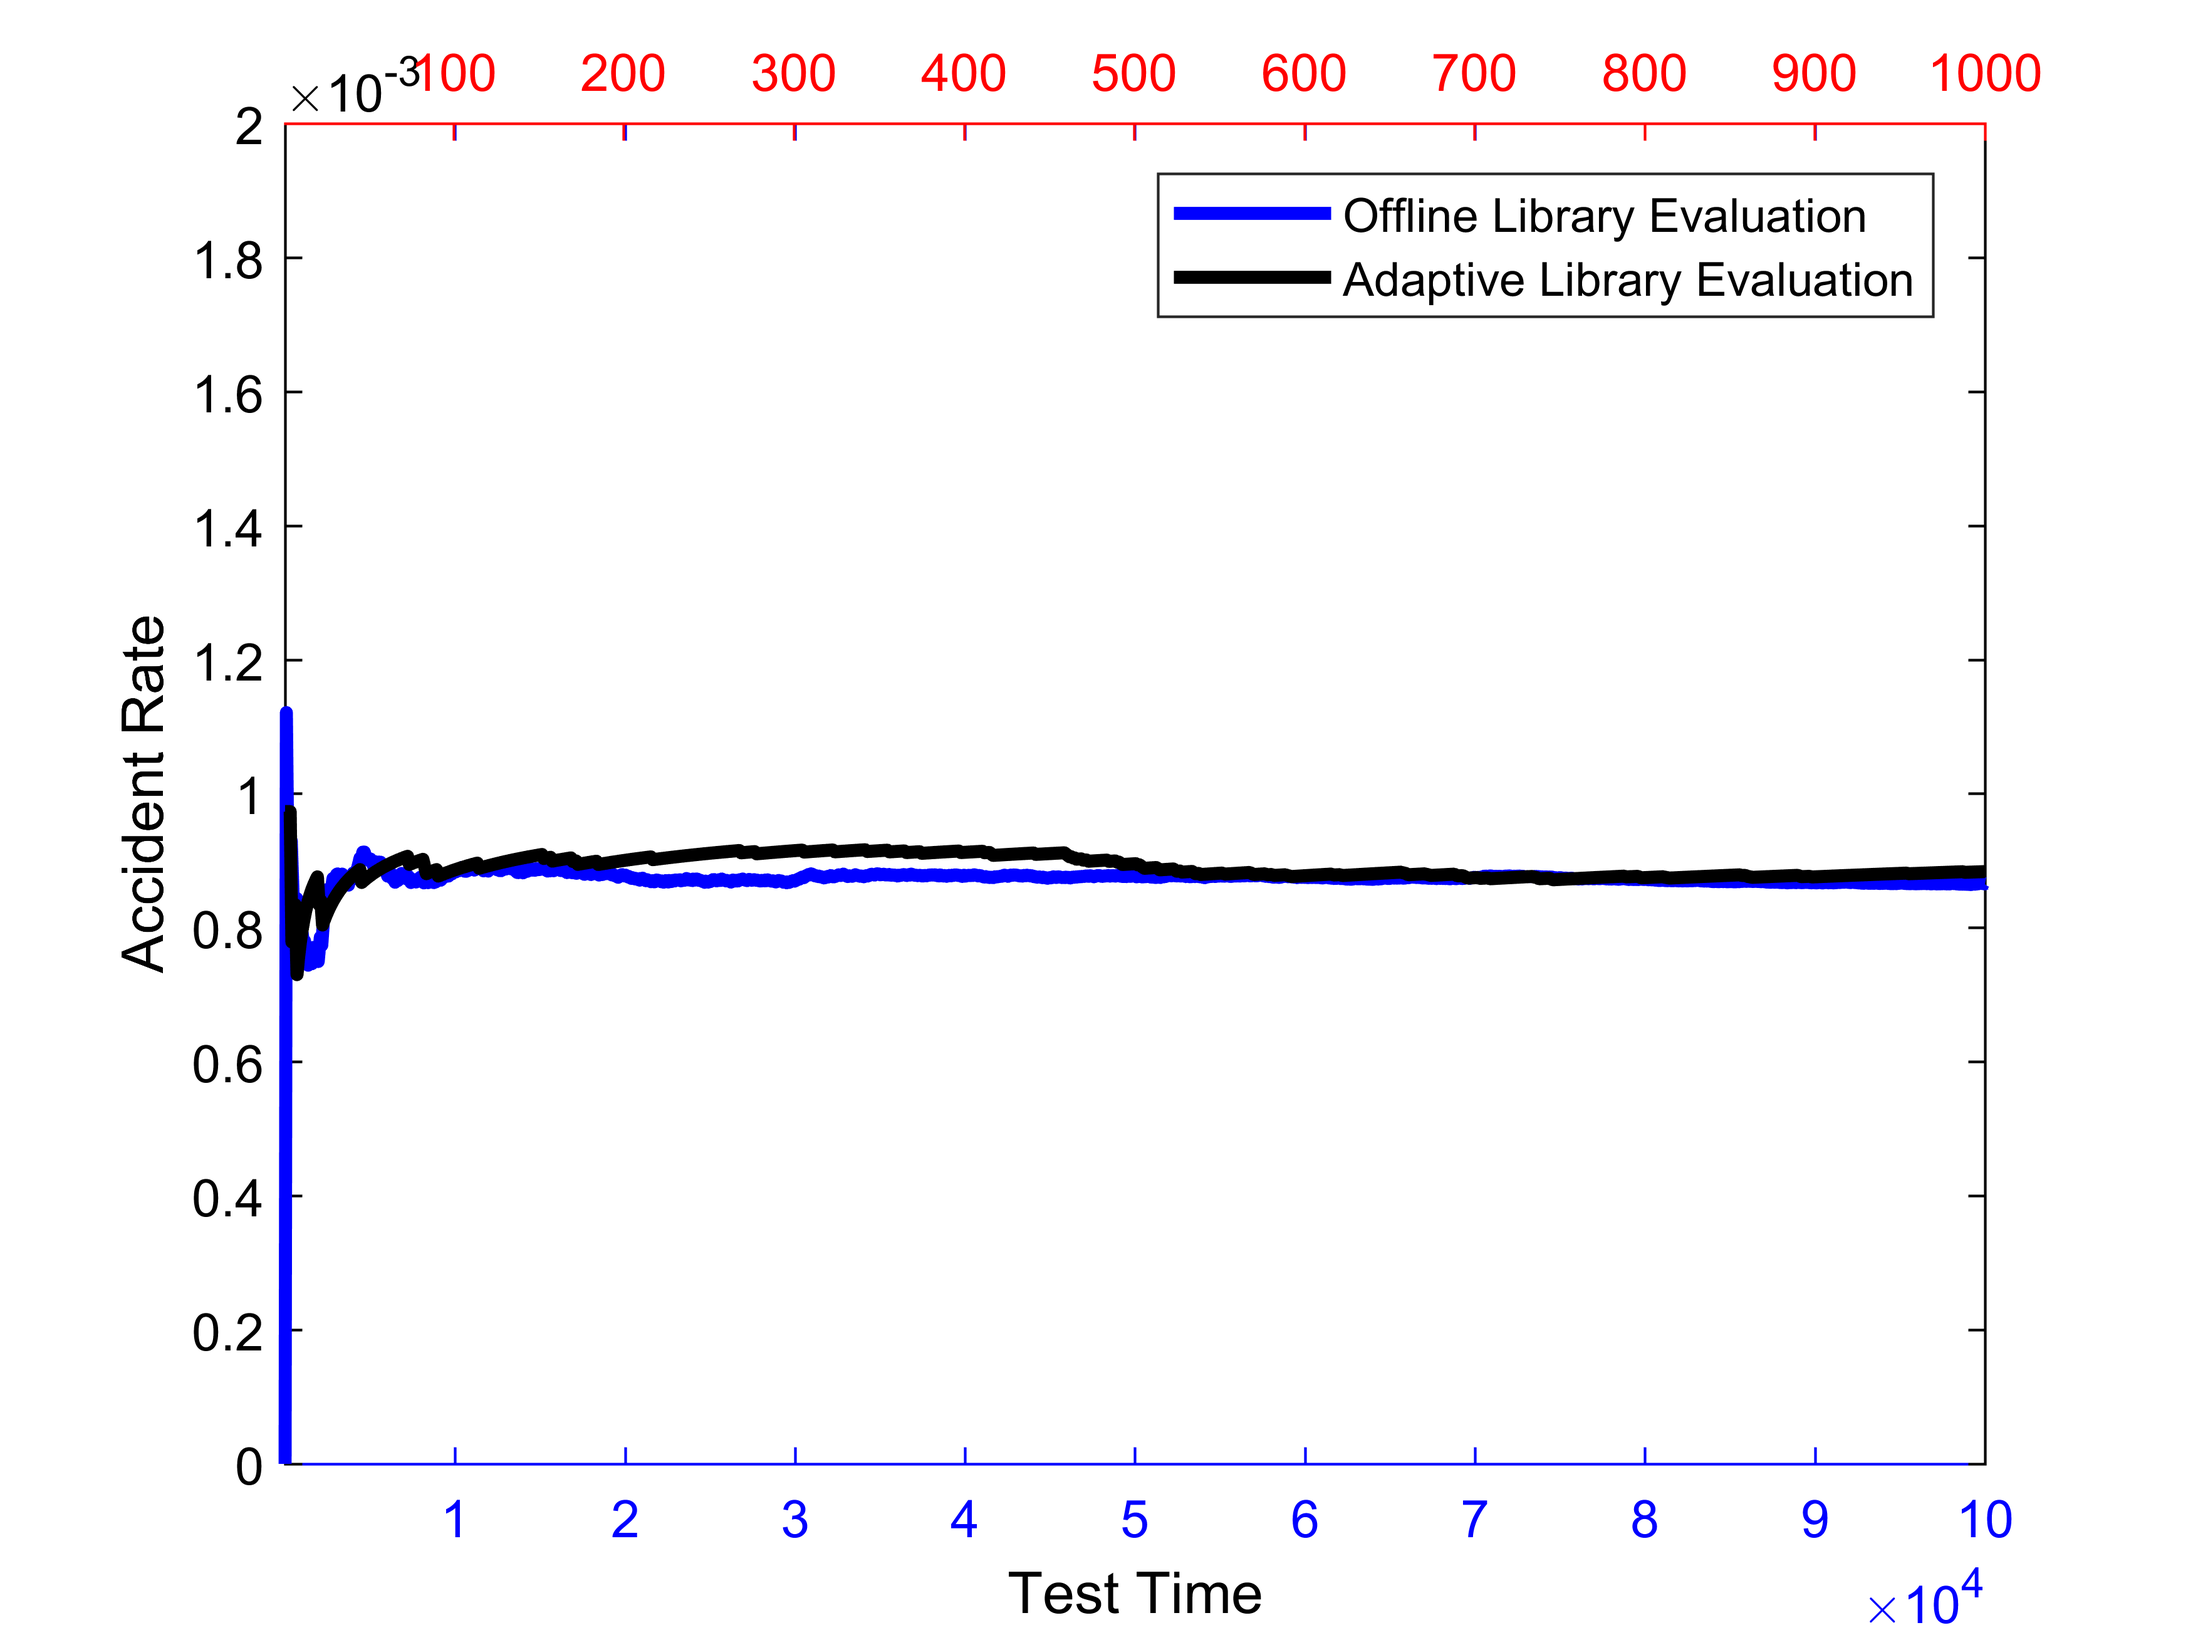
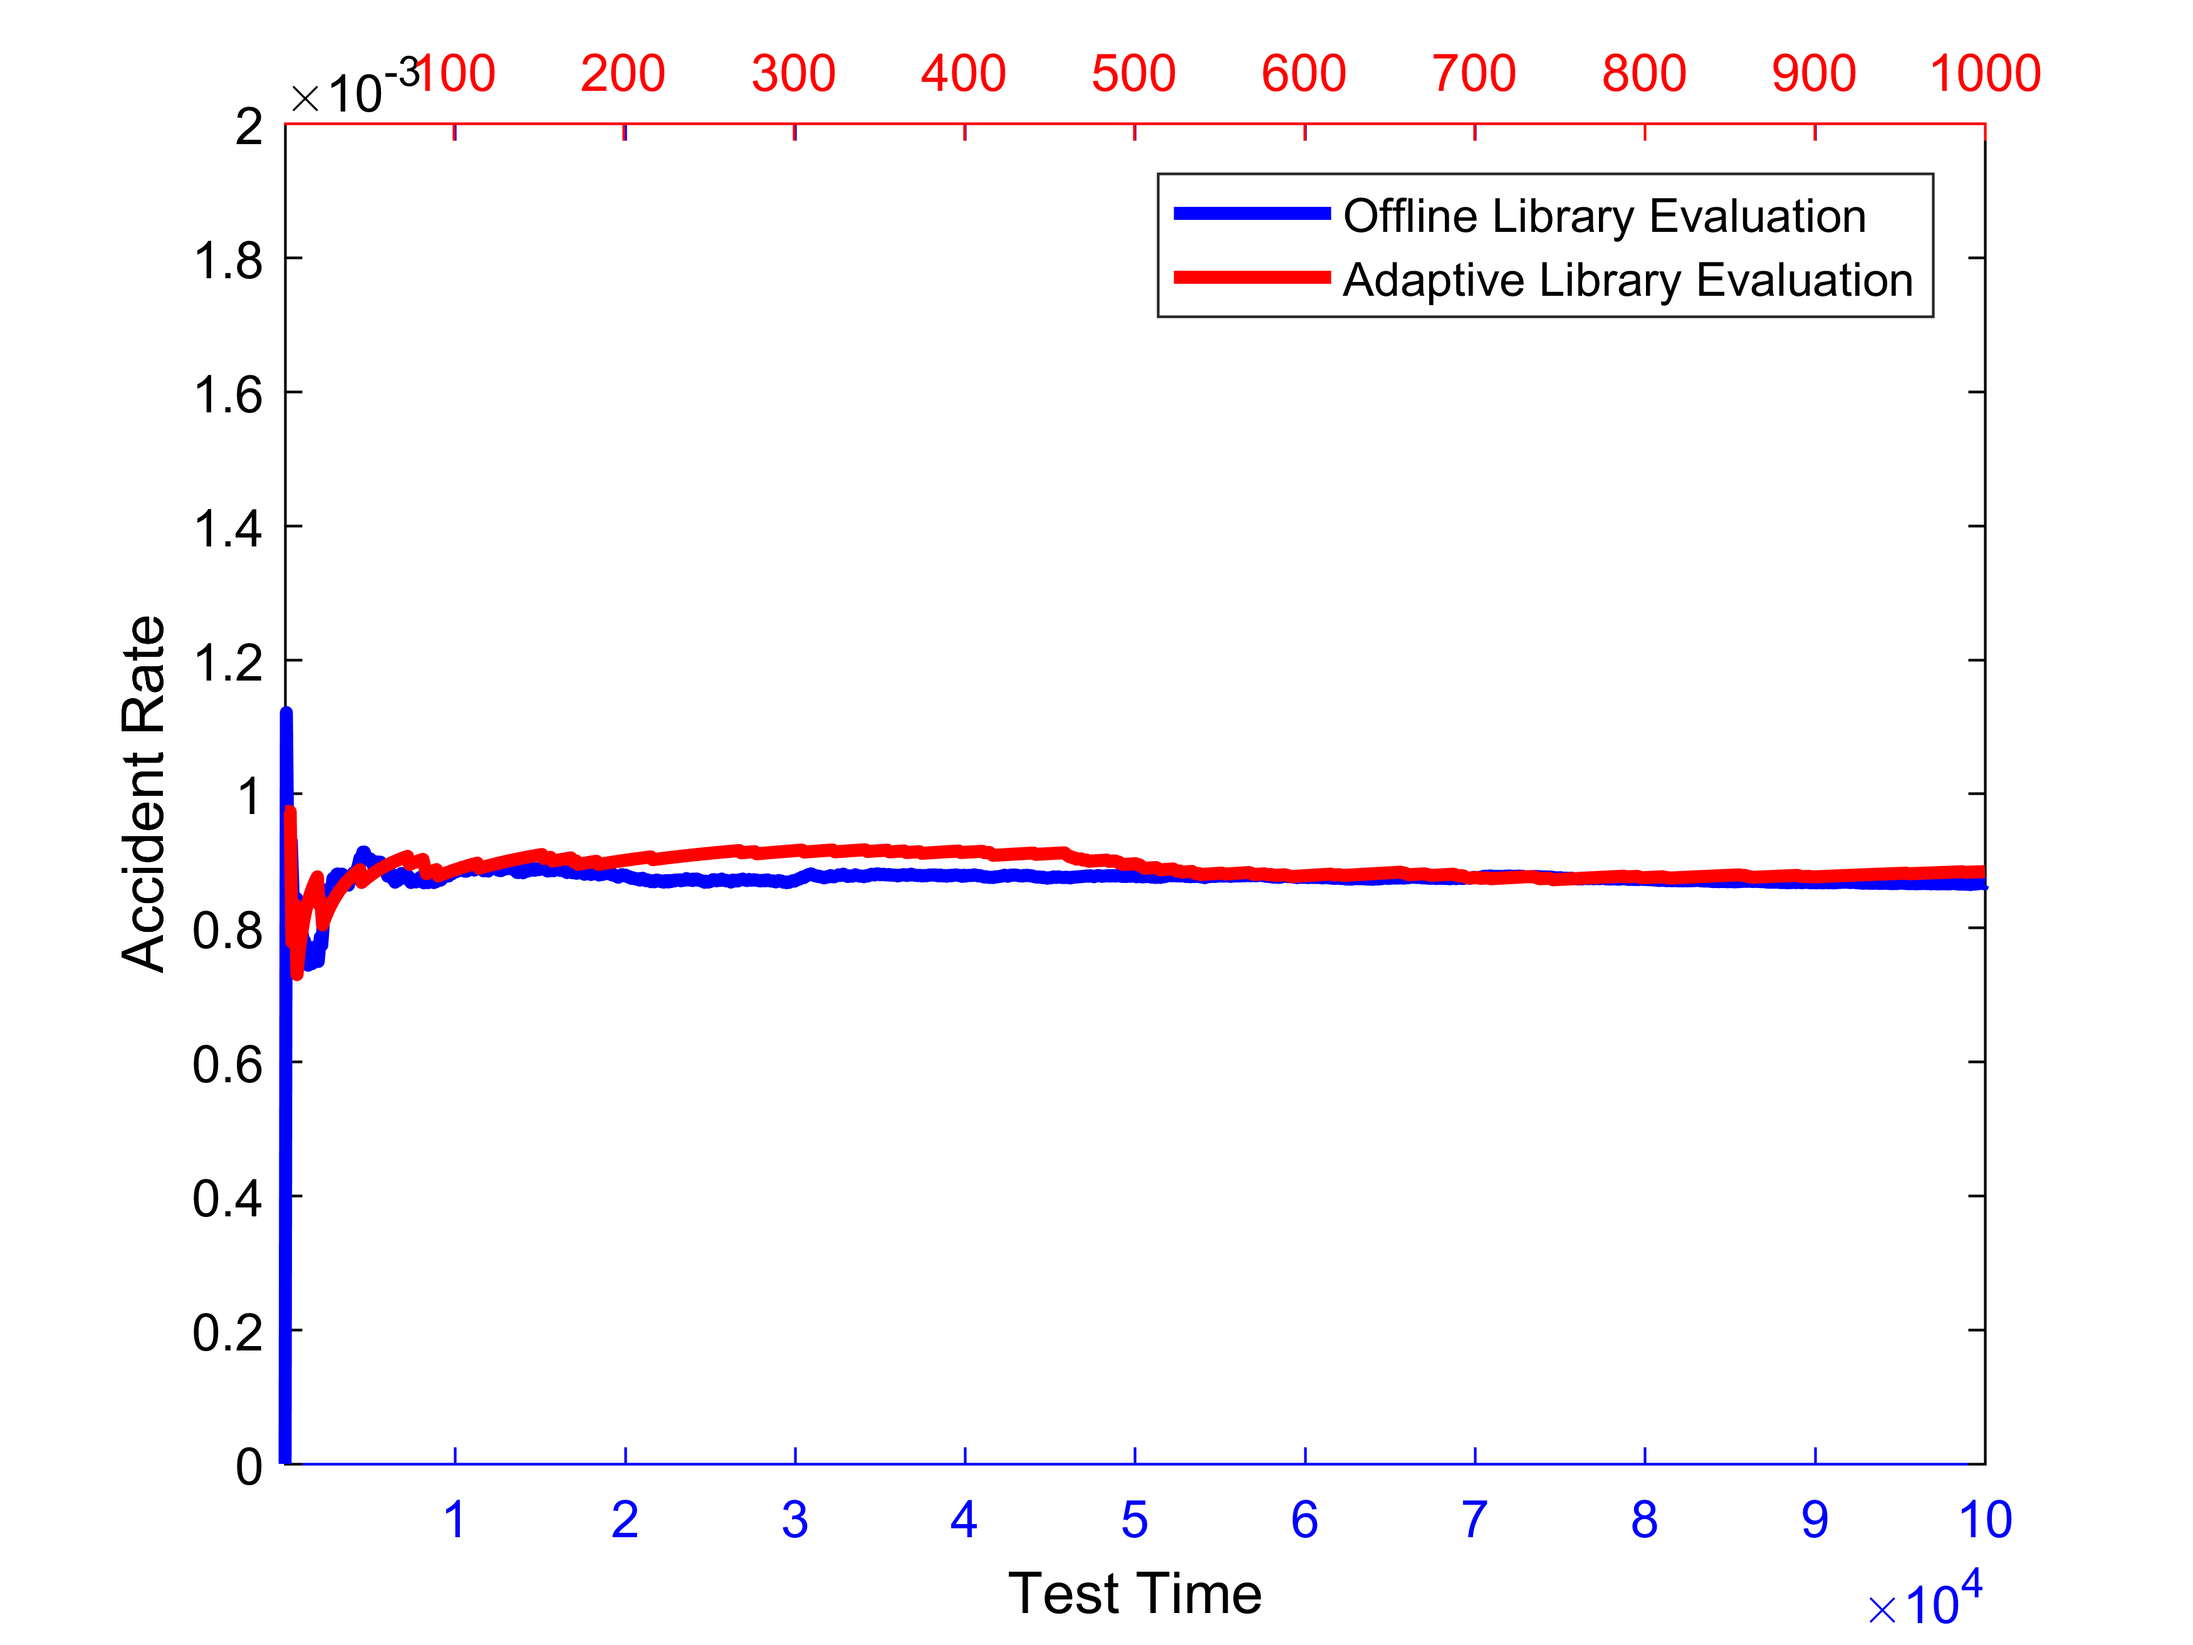
new result.

Changed region(s): [[0.1246, 0.4998, 0.9031, 0.5935], [0.5294, 0.1562, 0.6229, 0.1874]]

diff --git a/Plot_Test_Result.m b/Plot_Test_Result.m
@@ -17,7 +17,7 @@ axis(ax1,[-inf, inf, 0, 2e-3]);
 % online
 ax2 = axes('Position',get(ax1,'Position'),'XAxisLocation','top','color','none','XColor','r','YColor','none');
 hold on
-fig_OnLib = plot(acc_rate_OnLib, 'k-', 'linewidth',2.5,'Parent',ax2);
+fig_OnLib = plot(acc_rate_OnLib, 'r-', 'linewidth',2.5,'Parent',ax2);
 legend([fig_OffLib,fig_OnLib],'Offline Library Evaluation','Adaptive Library Evaluation');
 xlabel(ax1,'Test Time','Color','k');
 ylabel(ax1,'Accident Rate','Color','k');
@@ -95,7 +95,7 @@ for i=1:N_hf
     hald_wid_OnLib_tmp(1:N_valid_on)=1;
     hald_wid_OnLib_tmp(hald_wid_OnLib_tmp>half(i))=0;
     [~,test_num_on(i)] = max(hald_wid_OnLib_tmp);
-    test_num_on(i) = test_num_on(i) + 600;
+    test_num_on(i) = test_num_on(i) + 100;
 end
 figure;
 plot(half,test_num_off,'b','linewidth',3);
